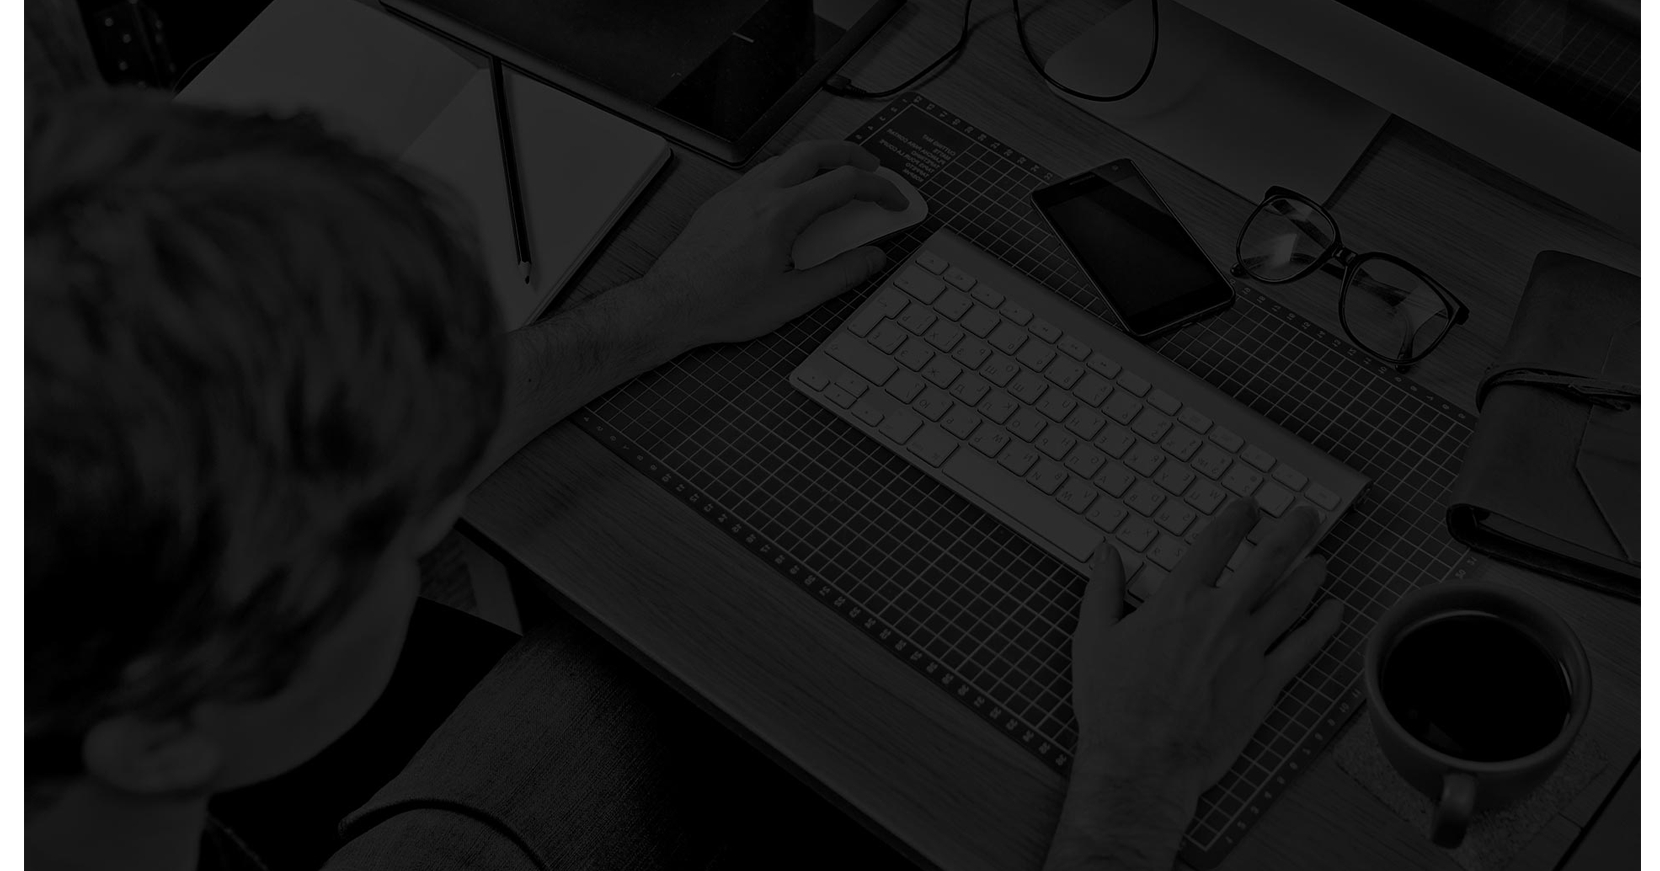
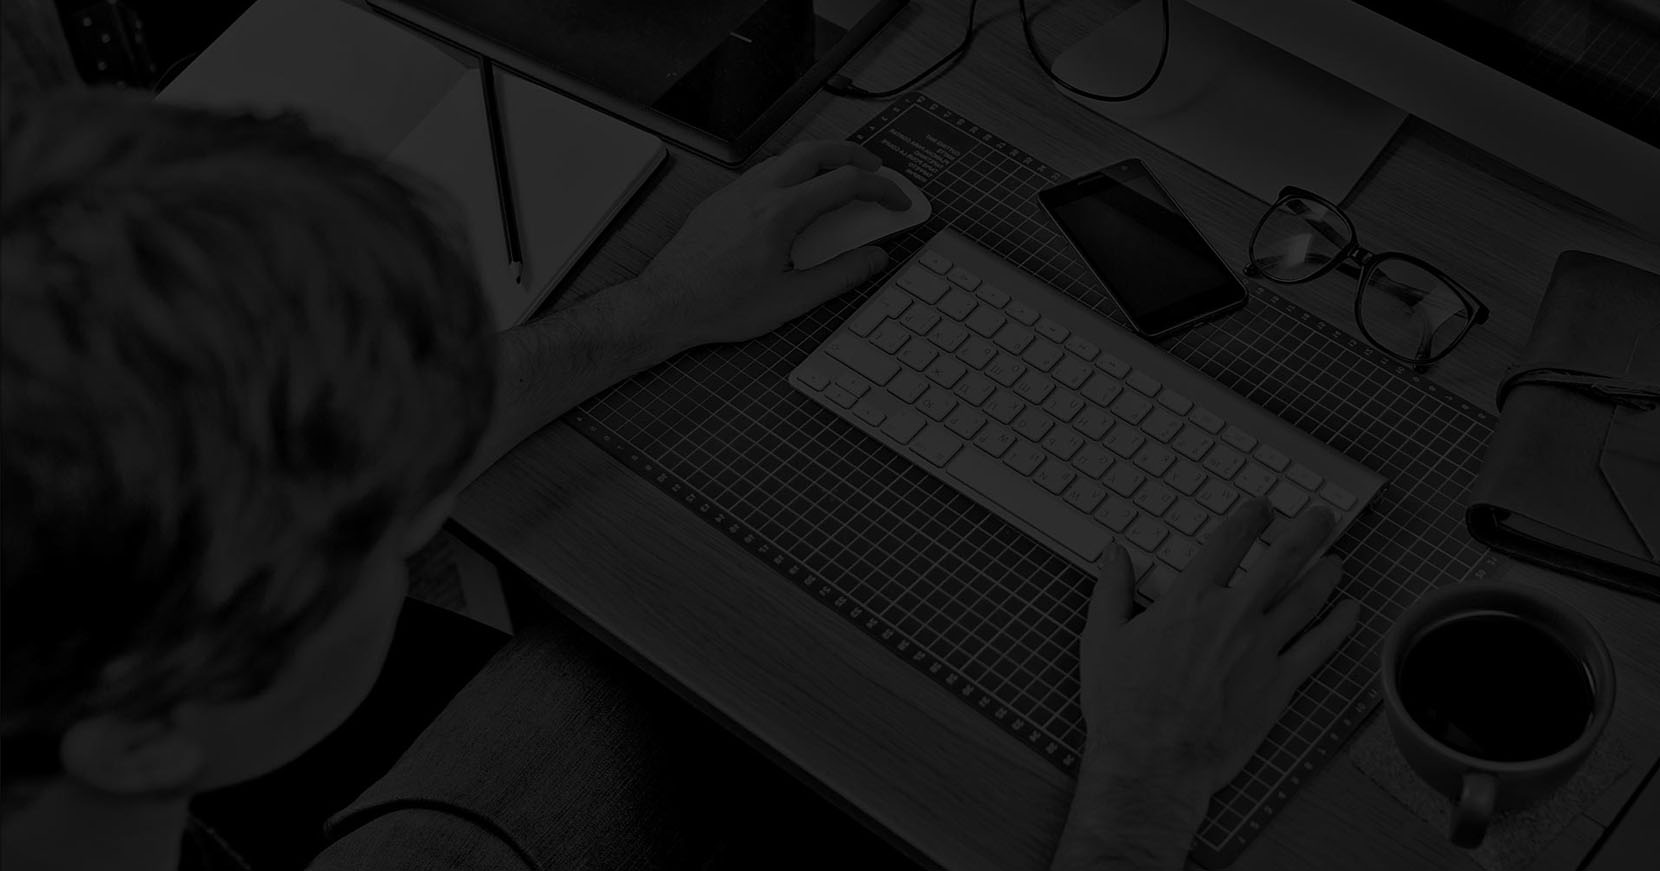
last commit

diff --git a/style.css b/style.css
@@ -430,7 +430,7 @@ header {
 
 .fifth-container {
   background-color: #11749e;
-  height: 20vh;
+  min-height: 355px;
   display: -webkit-box;
   display: -ms-flexbox;
   display: flex;
@@ -493,18 +493,161 @@ header {
 }
 
 .sixth-container {
-  width: 1600px;
-  height: 871px;
-  background: url("img/Clip.jpg") no-repeat;
+  min-height: 848px;
+  background: url("img/Clip.jpg") repeat;
   background-size: cover;
-  overflow: hidden;
+  color: #ffffff;
+  font-size: 1.5rem;
+  display: -webkit-box;
+  display: -ms-flexbox;
+  display: flex;
+  -webkit-box-orient: horizontal;
+  -webkit-box-direction: normal;
+      -ms-flex-direction: row;
+          flex-direction: row;
+  -webkit-box-align: center;
+      -ms-flex-align: center;
+          align-items: center;
+  -webkit-box-pack: center;
+      -ms-flex-pack: center;
+          justify-content: center;
 }
 
-.chips-text p {
-  margin: 0;
+.chips-container {
+  display: -webkit-box;
+  display: -ms-flexbox;
+  display: flex;
+  -webkit-box-orient: horizontal;
+  -webkit-box-direction: normal;
+      -ms-flex-direction: row;
+          flex-direction: row;
+  -ms-flex-wrap: nowrap;
+      flex-wrap: nowrap;
+  -webkit-box-pack: space-evenly;
+      -ms-flex-pack: space-evenly;
+          justify-content: space-evenly;
+  -webkit-box-align: center;
+      -ms-flex-align: center;
+          align-items: center;
+}
+
+.chips-text {
+  font-size: 1rem;
+  max-width: 432px;
+  min-height: 250px;
+  display: -webkit-box;
+  display: -ms-flexbox;
+  display: flex;
+  -webkit-box-orient: vertical;
+  -webkit-box-direction: normal;
+      -ms-flex-direction: column;
+          flex-direction: column;
+  -webkit-box-pack: justify;
+      -ms-flex-pack: justify;
+          justify-content: space-between;
+}
+
+.chips-text-item1 {
+  width: 370px;
+}
+
+.chips-text-item2 {
+  width: 400px;
+}
+
+.chips-text-item3 {
+  width: 428px;
+}
+
+.chips-text-item_mod {
+  -webkit-box-sizing: border-box;
+          box-sizing: border-box;
+  background-color: #11749e;
+  height: 38px;
+  padding: 11px 0;
+  padding-left: 10px;
 }
 
 .chips-phone {
-  background: url("img/Rectangle1.jpg"), url("img/text.jpg");
+  background: url("img/Rectangle1.png");
+  width: 390px;
+  height: 651px;
+  position: relative;
+}
+
+.chips-phone::after {
+  position: absolute;
+  content: "";
+  background: url("img/text.jpg");
+  width: 284.05px;
+  height: 494.31px;
+  top: 76.8px;
+  left: 50px;
+}
+
+.seventh-container {
+  min-width: 944px;
+  color: #fff;
+}
+
+.team-container {
+  min-height: 1000px;
+  display: -webkit-box;
+  display: -ms-flexbox;
+  display: flex;
+  -webkit-box-orient: vertical;
+  -webkit-box-direction: normal;
+      -ms-flex-direction: column;
+          flex-direction: column;
+  -ms-flex-pack: distribute;
+      justify-content: space-around;
+  -webkit-box-align: center;
+      -ms-flex-align: center;
+          align-items: center;
+}
+
+.team-title {
+  font-size: 2.5rem;
+  color: #222222;
+  position: relative;
+  z-index: 10;
+  padding-top: 80px;
+}
+
+.team-title::after {
+  content: "T";
+  color: #707070;
+  font-size: 15rem;
+  position: absolute;
+  top: -40px;
+  left: 25px;
+  z-index: -1;
+}
+
+.team-subtitle {
+  color: #222222;
+}
+
+.team-photos {
+  width: 100%;
+  display: -webkit-box;
+  display: -ms-flexbox;
+  display: flex;
+  -webkit-box-orient: horizontal;
+  -webkit-box-direction: normal;
+      -ms-flex-direction: row;
+          flex-direction: row;
+  -webkit-box-pack: space-evenly;
+      -ms-flex-pack: space-evenly;
+          justify-content: space-evenly;
+}
+
+.team-photo {
+  -o-object-fit: cover;
+     object-fit: cover;
+  width: 100%;
+  height: 100%;
+  max-height: 483px;
+  max-width: 270px;
 }
 /*# sourceMappingURL=style.css.map */

diff --git a/index.html b/index.html
@@ -10,16 +10,16 @@
 
 <body>
     <header>
-        <div class="header-container">
+        <div class="header-container" id='header'>
             <nav class="header__nav">
                 <img src="icons/Logo.svg" alt="logo" class="logo">
                 <ul class="header__list">
-                    <li class="item"><a href="#" class='link link_bot'>Home</a></li>
-                    <li class="item"><a href="#" class='link link_bot'>Pages</a></li>
+                    <li class="item"><a href="#header" class='link link_bot'>Home</a></li>
+                    <li class="item"><a href="#seventh" class='link link_bot'>Pages</a></li>
                     <li class="item"><a href="#second" class='link link_bot'>Features</a></li>
-                    <li class="item"><a href="#" class='link link_bot'>Extensions</a></li>
-                    <li class="item"><a href="#" class='link link_bot'>Tutorials</a></li>
-                    <li class="item"><a href="#" class='link link_bot'>Contact us</a></li>
+                    <li class="item"><a href="#third" class='link link_bot'>Extensions</a></li>
+                    <li class="item"><a href="#fifth" class='link link_bot'>Tutorials</a></li>
+                    <li class="item"><a href="#sixth" class='link link_bot'>Contact us</a></li>
                 </ul>
                 <div class="cont">
                     <ul class='header__list header__list_mod'>
@@ -192,18 +192,37 @@
 
         <div class="sixth-container" id='sixth'>
             <div class="chips-container">
-                <div class="chips-text">
-                    <p>AKITA INU DOG</p>
-                    Cum sociis natoque penatibus et magnis dis parturient montes, nascetur ridiculus mus. Lorem ipsum
-                    dolor sit amet, consectetur adipiscing elit. Donec sed odio dui. Vivamus sagittis lacus vel augue
-                    laoreet rutrum faucibus dolor auctor.
+                <div class='chips-text'>
+                    <div class="chips-text-item"> INU DOG <br>
+                        Cum sociis natoque penatibus et magnis dis parturient montes, nascetur ridiculus mus. Lorem
+                        ipsum
+                        dolor sit amet, consectetur adipiscing elit. Donec sed odio dui. Vivamus sagittis lacus vel
+                        augue
+                        laoreet rutrum faucibus dolor auctor.
+                    </div>
+                    <div class="chips-text-item1 chips-text-item_mod">FULLY RESPONSIVE DESIGN</div>
+                    <div class="chips-text-item2 chips-text-item_mod">HIGH QUALITY CODE</div>
+                    <div class="chips-text-item3 chips-text-item_mod">DIFFERENT HEADERS & LAYOUT</div>
                 </div>
                 <div class="chips-phone"></div>
-
+            </div>
+        </div>
+        <div class="seventh-container" id="seventh">
+            <div class="team-container">
+                <div class="team-title">OUR TEAM</div>
+                <div class="team-subtitle"> sales long tail influencer pitch release niche market.
+                </div>
+                <div class="team-photos">
+                    <div class="team-photo"><img src="img/Member1.jpg" alt=></div>
+                    <div class="team-photo"><img src="img/Member2.jpg" alt=""></div>
+                    <div class="team-photo"><img src="img/Member3.jpg" alt=""></div>
+                    <div class="team-photo"><img src="img/Member4.jpg" alt=""></div>
+                </div>
             </div>
         </div>
 
     </main>
+    <script src="script.js"></script>
 </body>
 
 </html>

diff --git a/style.scss b/style.scss
@@ -316,7 +316,7 @@ header {
 //------------------4-section--------------------
 .fifth-container {
     background-color: #11749e;
-    height: 20vh;
+    min-height: 355px;
     display: flex;
     flex-direction: row;
     align-items: center;
@@ -350,19 +350,110 @@ header {
 
 //------------------5-section--------------------
 .sixth-container {
-    width: 1600px;
-    height: 871px;
-    background: url("img/Clip.jpg") no-repeat;
+    min-height: 848px;
+    background: url("img/Clip.jpg") repeat;
     background-size: cover;
-    overflow: hidden;
+    color: #ffffff;
+    font-size: 1.5rem;
+    display: flex;
+    flex-direction: row;
+    align-items: center;
+    justify-content: center;
 }
 .chips-container {
+    display: flex;
+    flex-direction: row;
+    flex-wrap: nowrap;
+    justify-content: space-evenly;
+    align-items: center;
 }
 .chips-text {
-    p {
-        margin: 0;
-    }
+    font-size: 1rem;
+    max-width: 432px;
+    min-height: 250px;
+    display: flex;
+    flex-direction: column;
+    justify-content: space-between;
+}
+
+.chips-text-item1 {
+    width: 370px;
+}
+
+.chips-text-item2 {
+    width: 400px;
+}
+
+.chips-text-item3 {
+    width: 428px;
+}
+
+.chips-text-item_mod {
+    box-sizing: border-box;
+    background-color: #11749e;
+    height: 38px;
+    padding: 11px 0;
+    padding-left: 10px;
 }
 .chips-phone {
-    background: url("img/Rectangle1.jpg"), url("img/text.jpg");
+    background: url("img/Rectangle1.png");
+    width: 390px;
+    height: 651px;
+    position: relative;
+}
+
+.chips-phone::after {
+    position: absolute;
+    content: "";
+    background: url("img/text.jpg");
+    width: 284.05px;
+    height: 494.31px;
+    top: 76.8px;
+    left: 50px;
+}
+
+//---------------6-team-section-------------
+
+.seventh-container {
+    min-width: 944px;
+    color: #fff;
+}
+.team-container {
+    min-height: 1000px;
+    display: flex;
+    flex-direction: column;
+    justify-content: space-around;
+    align-items: center;
+}
+.team-title {
+    font-size: 2.5rem;
+    color: #222222;
+    position: relative;
+    z-index: 10;
+    padding-top: 80px;
+}
+.team-title::after {
+    content: "T";
+    color: #707070;
+    font-size: 15rem;
+    position: absolute;
+    top: -40px;
+    left: 25px;
+    z-index: -1;
+}
+.team-subtitle {
+    color: #222222;
+}
+.team-photos {
+    width: 100%;
+    display: flex;
+    flex-direction: row;
+    justify-content: space-evenly;
+}
+.team-photo {
+    object-fit: cover;
+    width: 100%;
+    height: 100%;
+    max-height: 483px;
+    max-width: 270px;
 }
